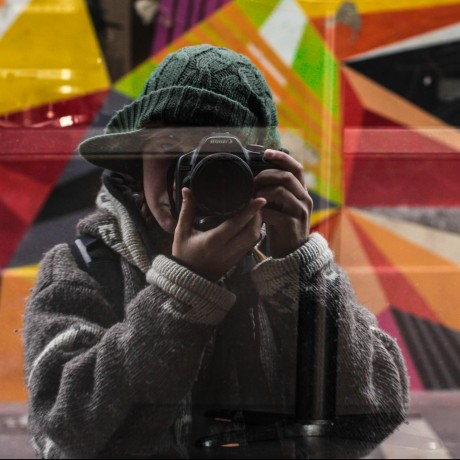
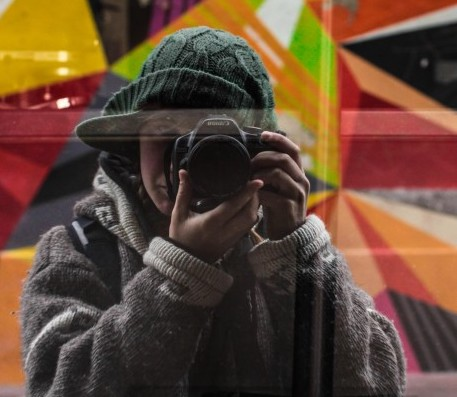
Change images styls for about page, switch images out

diff --git a/src/pages/about.js b/src/pages/about.js
@@ -11,11 +11,14 @@ import "../components/Styles/about-css-module.css"
 const SecondPage = () => {
   const data = useStaticQuery(graphql`
     query Image {
-    image: file(relativePath: {eq: "IMG_8909.jpg"}) {
+    image: file(relativePath: {eq: "IMG_5781.JPG"}) {
       id
       childImageSharp {
         fixed(width: 300) {
           ...GatsbyImageSharpFixed
+        }
+        fluid{
+          ...GatsbyImageSharpFluid
         }
       }
     }
@@ -35,6 +38,14 @@ const SecondPage = () => {
         }
       }
     }
+    image4: file(relativePath: {eq: "IMG_8909.jpg"}) {
+      id
+      childImageSharp {
+        fluid{
+          ...GatsbyImageSharpFluid
+        }
+      }
+    }
   }
   `)
 
@@ -46,7 +57,7 @@ const SecondPage = () => {
      
           <Img
             fixed={data.image.childImageSharp.fixed}
-            alt="Watching the sunset at the Great Salt Lake in Utah"
+            alt="Scarlett and Mitch rafting in Idaho"
           ></Img>
           <Img 
             fixed={data.image2.childImageSharp.fixed}
@@ -87,6 +98,13 @@ const SecondPage = () => {
             house so we can check out all the amazing places we haven't visited
             yet on wheels.
           </p>
+
+          <div className="midPhoto">
+          <Img
+            fluid={data.image4.childImageSharp.fluid}
+            alt="Dusk at the Great Salt Lake"
+          ></Img>
+          </div>
 
           <h2>Skills and Experiences</h2>
           <ul className="skills">

diff --git a/src/components/BackgroundImage.js b/src/components/BackgroundImage.js
@@ -1,0 +1,21 @@
+import React from 'react';
+import { graphql, StaticQuer } from 'gatsby'
+import styled from 'styled-componets'
+
+import BackgroundImage from 'gatsby-background-image'
+
+const BackgroundSection = ({ className }) => {
+    const data = useStaticQuery(graphql`
+    query HomePage {
+      image: file(relativePath: {eq: "IMG_8932.jpg"}) {
+        id
+        childImageSharp {
+          fluid {
+            ...GatsbyImageSharpFluid
+          }
+        }
+      }
+  
+    }
+  `)
+}

diff --git a/src/components/Styles/about-css-module.css b/src/components/Styles/about-css-module.css
@@ -14,12 +14,19 @@
 }
 
 
-
-img {
-    max-width: 250px;
+.me-photos img {
     margin: 10px;
-    object-fit: cover;
+    object-fit: contain;
 }
+
+.midPhoto {
+   margin-bottom: 30px;
+}
+
+.midPhoto img {
+    width: 80%;
+}
+
 
 .bio {
     margin-top: 30px;
@@ -51,4 +58,10 @@ img {
     -moz-columns: 3;
     list-style-type: disc;
     font-size: 0.8rem;
+}
+
+@media only screen and (max-width: 480px) {
+    .me-photos {
+        flex-direction: column;
+    }
 }

diff --git a/src/pages/index.js b/src/pages/index.js
@@ -2,16 +2,15 @@ import React from "react"
 
 import Layout from "../components/layout"
 import SEO from "../components/seo"
-import styles from "../components/Styles/home-css-module.css"
+import "../components/Styles/home-css-module.css"
 
 
-console.log(styles)
+
 const IndexPage = () => {
   return (
     <Layout>
     <SEO title="Home" />
     <div className="home"
-  
     >
             <div className="intro">
                 <h1>Michaela Wagner</h1>

diff --git a/src/components/Styles/portfolio-css-module.css b/src/components/Styles/portfolio-css-module.css
@@ -1,7 +1,15 @@
 main.photos {
     display: grid;
     grid-gap: 2px;
-    grid-template-columns: repeat(auto-fit, minmax(300px, 1fr));
+    grid-template-columns: repeat(auto-fit, minmax(200px, 1fr));
     grid-auto-flow: dense;
+}
+
+@media only screen and (max-width: 480px) {
+    main.photos {
+        display: flex;
+        flex-direction: column;
+        justify-content: center;
+    }
 }
 

diff --git a/src/components/Styles/home-css-module.css b/src/components/Styles/home-css-module.css
@@ -12,6 +12,7 @@
     color: white;
     position: relative;
     top: -40px;
+    max-width: 80%;
 }
 
 .intro h1 {
